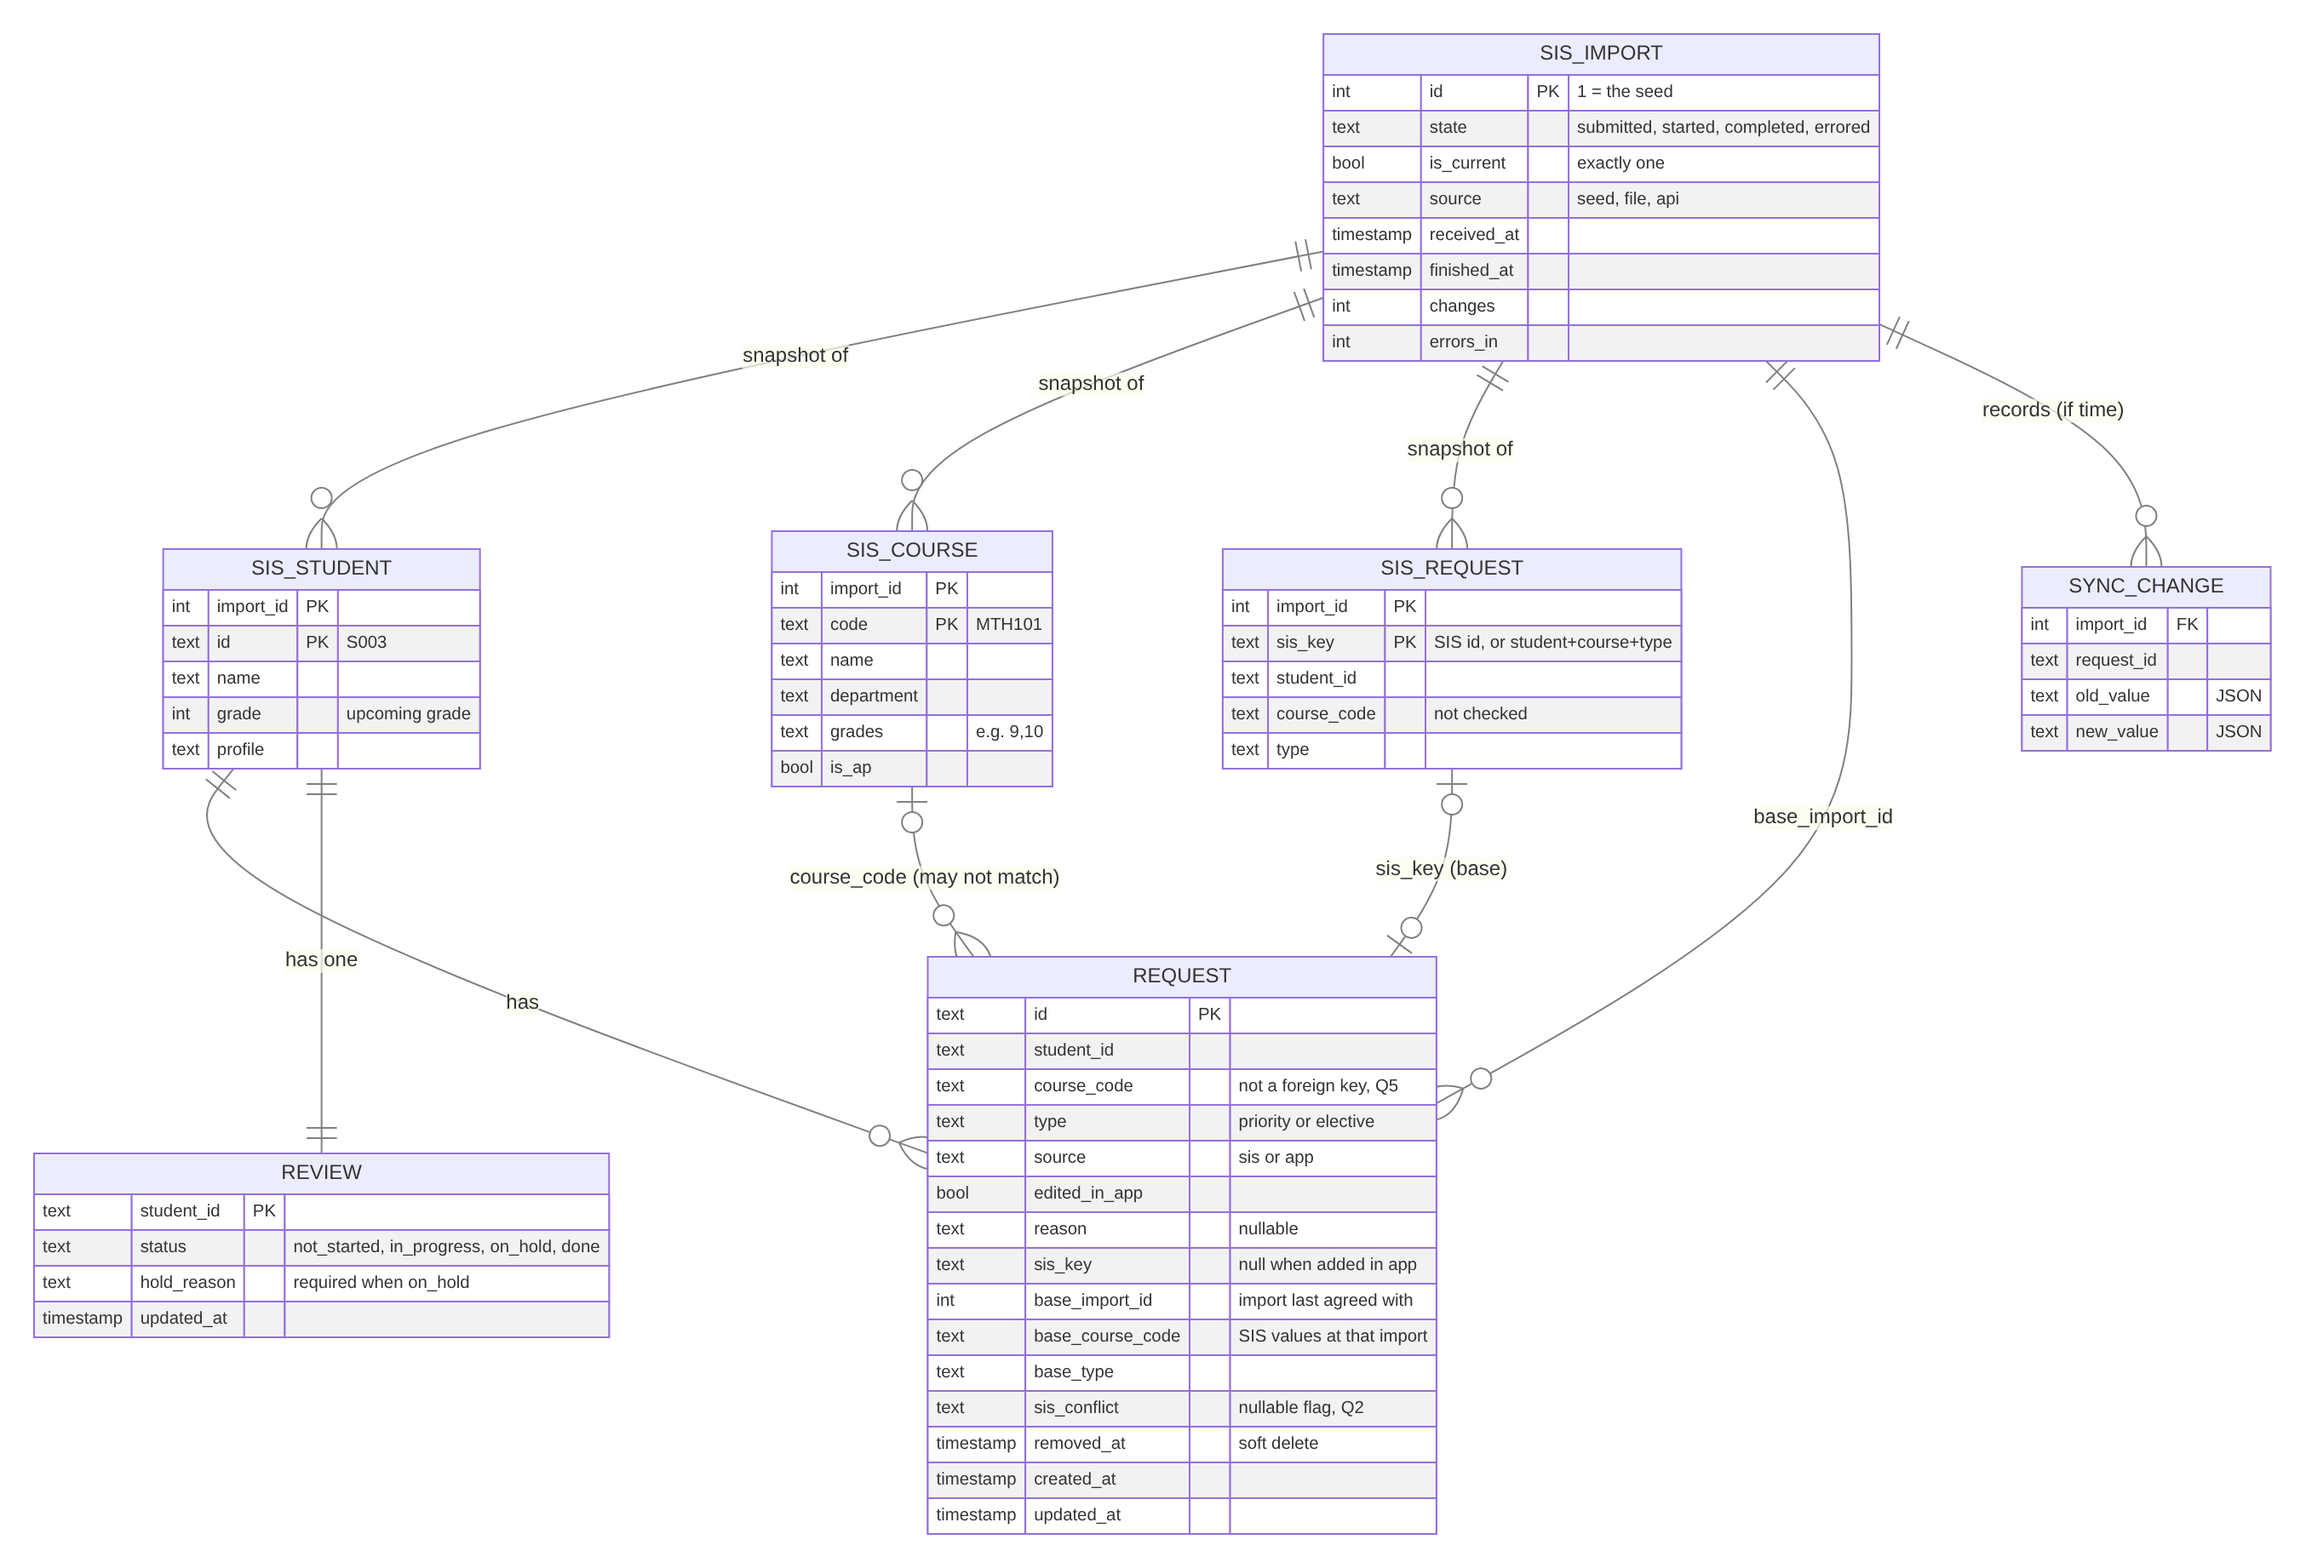
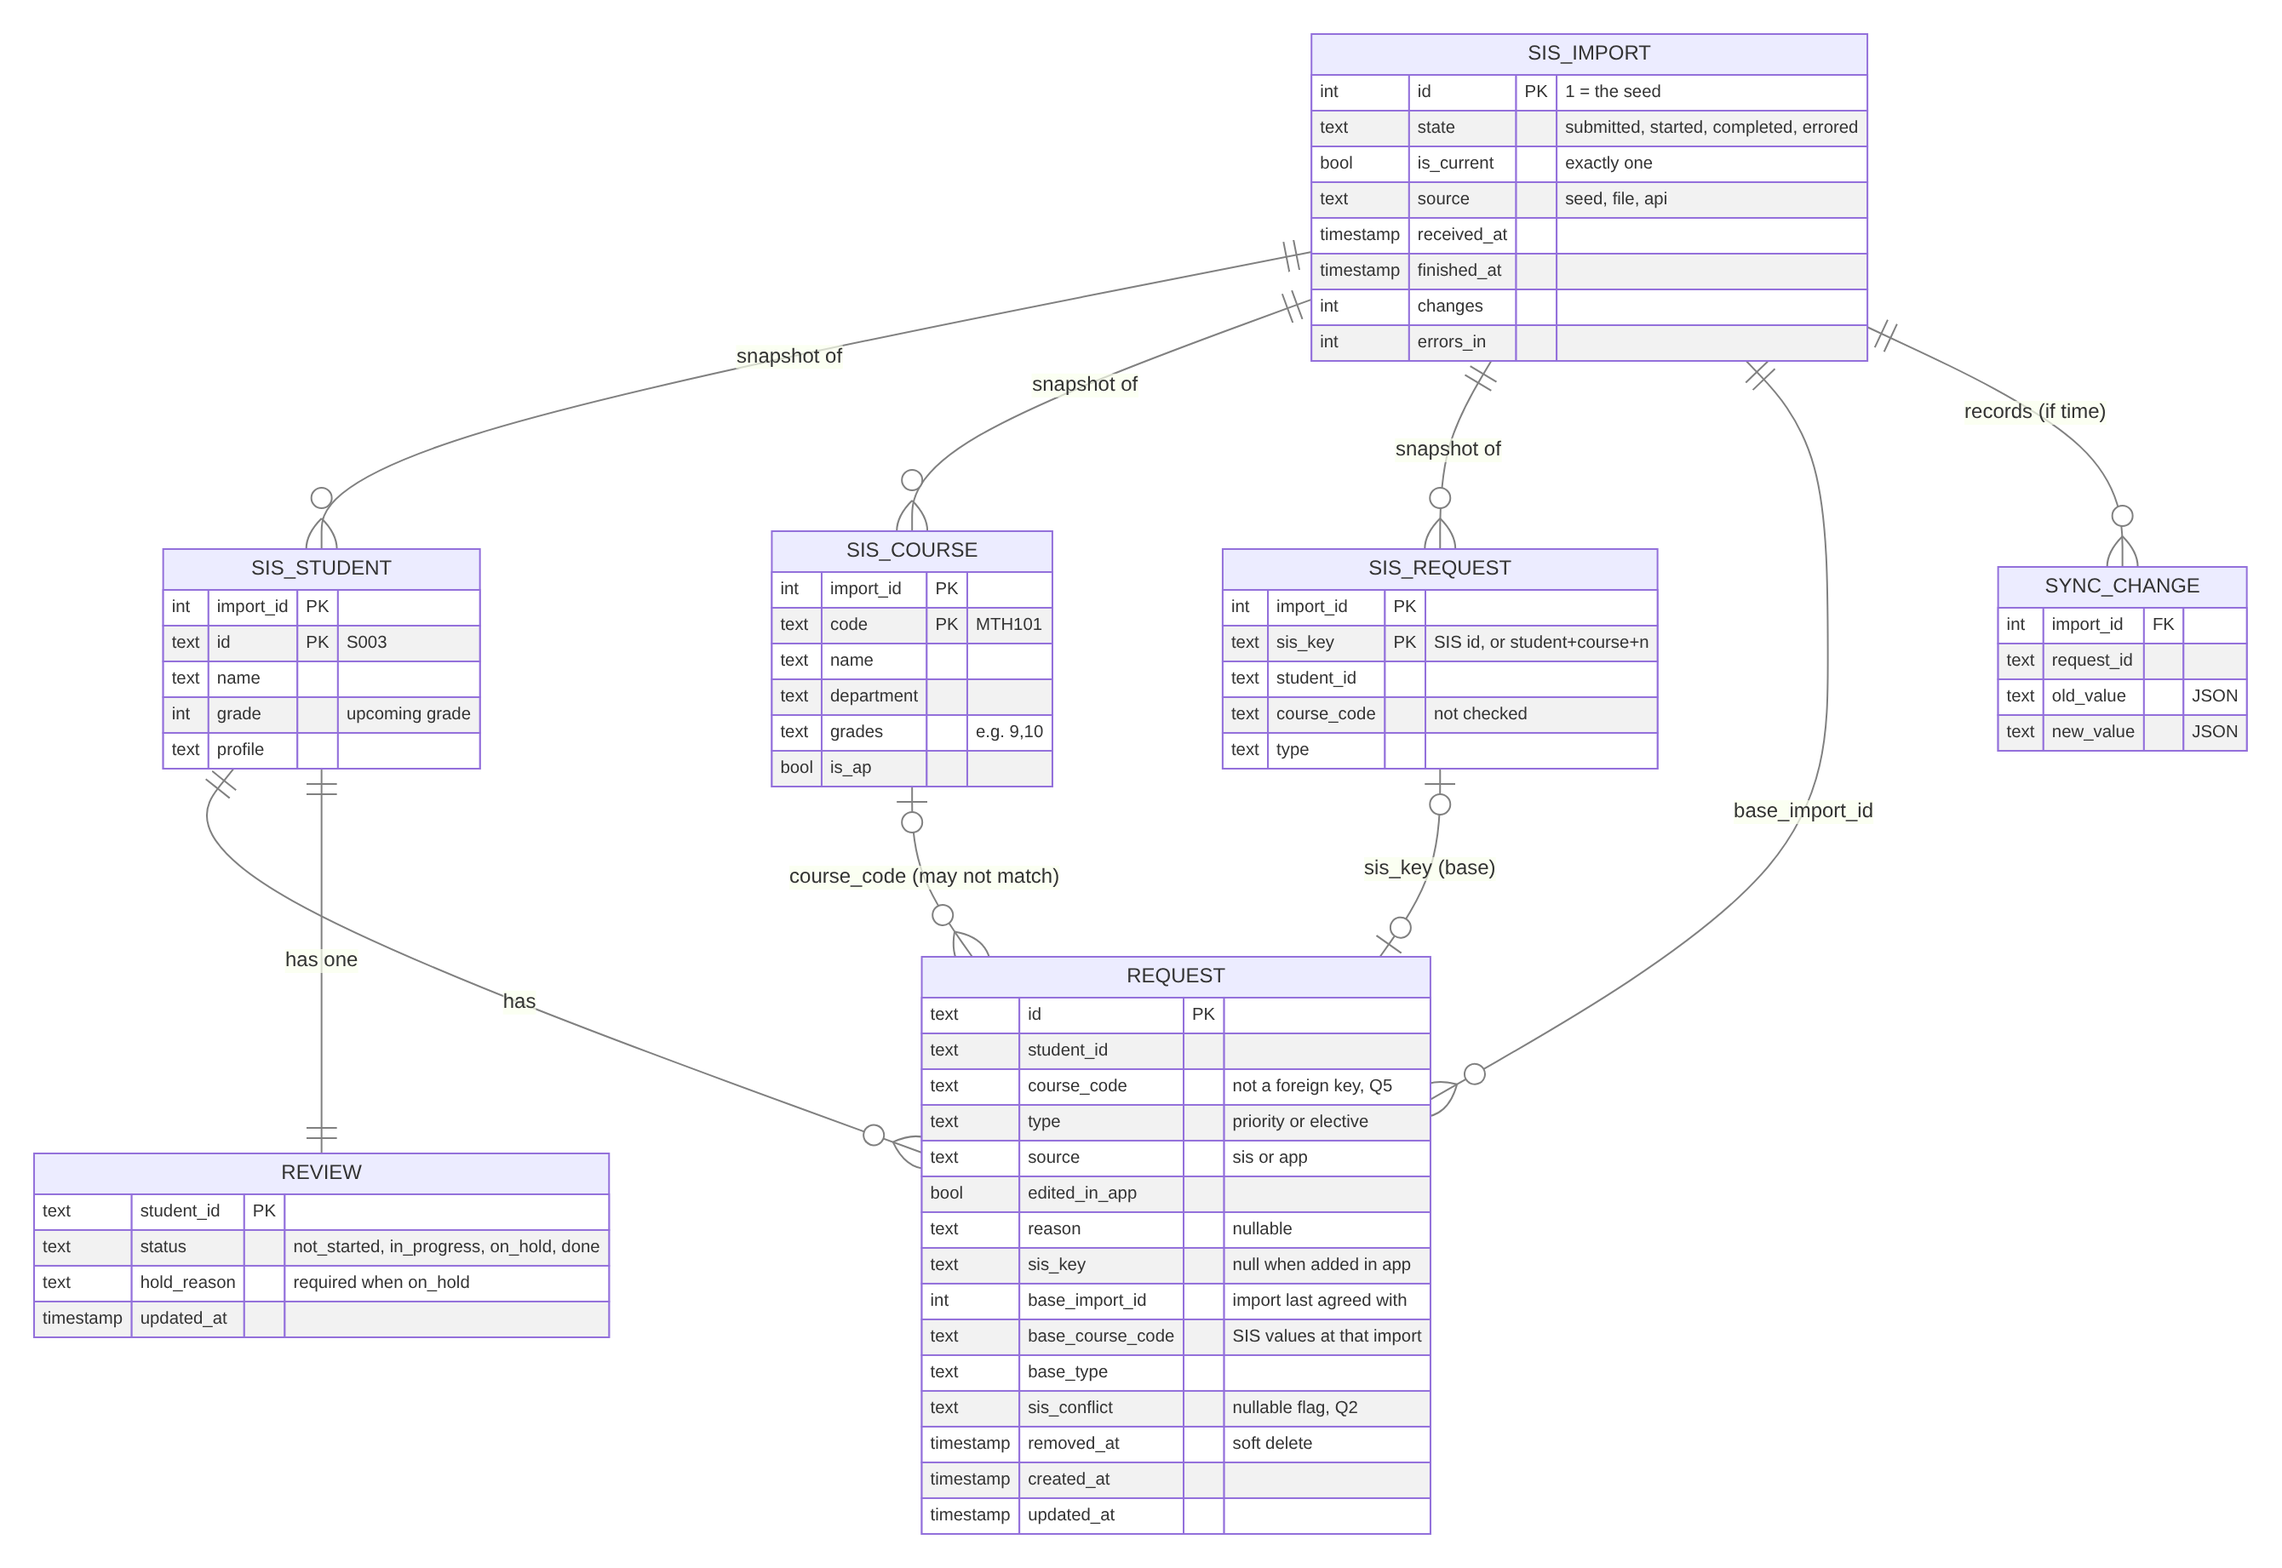
Q18: SIS request key is student+course+counter, not type
Claude-Session: https://claude.ai/code/session_016PjUpiGqPffv7nvHWyLZM3

diff --git a/docs/decisions/q018-sis-import-versioning.md b/docs/decisions/q018-sis-import-versioning.md
@@ -25,12 +25,12 @@ Stephen (2026-10-28): "we should have a versioning concept where the data is lin
 **A.** The pattern:
 
 1. **Each SIS import is an immutable snapshot** with an ID (`sis_import`, the same thing as a Q13 sync run). Students, courses and SIS requests are stored per import; one import is marked current. Old imports never change, so "what did the SIS say on Oct 26?" is answerable, and rolling back SIS-owned data moves the current pointer.
-2. **Each request remembers its base:** a stable `sis_key` to its SIS counterpart (the SIS's own request ID if it sends one; in the seed, student + course + type), the import it last agreed with, and the SIS values at that point.
+2. **Each request remembers its base:** a stable `sis_key` to its SIS counterpart (the SIS's own request ID if it sends one; otherwise student + course + an occurrence counter for duplicates), the import it last agreed with, and the SIS values at that point.
 3. **A new import reconciles three ways** (base SIS, app, new SIS): SIS changed and app didn't, apply; app changed and SIS didn't, keep; both changed, flag and never overwrite (Q2); new in SIS, add; gone from SIS, remove if untouched, flag if edited.
 
 Prototype: the seed loads as import #1 and the schema carries every field. The three-way compare, a second "import #2" seed and rollback are built only if the sync demo happens (Q9). DuckDB (Q7) does the snapshot-to-snapshot diff. Keep the last N imports (N to set; trivial at 10 students).
 
-Trade-off accepted: with no SIS request ID in the seed, a SIS change from priority to elective looks like one request removed and another added.
+Key choice (revised 2026-10-28 with Stephen): type is not part of the key, so a priority-to-elective change in the SIS is a type change on the same request. Trade-off accepted: duplicate rows (already errors, Q5) are told apart by order, so they may swap keys if the SIS reorders them. Each import's internal version ID is `sis_import.id`.
 
 ## Impacts (all updated in the same change)
 

diff --git a/docs/architecture/schema.md b/docs/architecture/schema.md
@@ -51,7 +51,7 @@ erDiagram
     }
     SIS_REQUEST {
         int import_id PK
-        text sis_key PK "SIS id, or student+course+type"
+        text sis_key PK "SIS id, or student+course+n"
         text student_id
         text course_code "not checked"
         text type
@@ -132,7 +132,7 @@ CREATE TABLE sis_course (
 
 CREATE TABLE sis_request (
   import_id   INTEGER NOT NULL REFERENCES sis_import (id),
-  sis_key     TEXT NOT NULL,        -- the SIS's request ID; in the seed, 'S008|SS402|elective'
+  sis_key     TEXT NOT NULL,        -- the SIS's request ID; in the seed, student|course|n, e.g. 'S008|SS402|2'
   student_id  TEXT NOT NULL,
   course_code TEXT NOT NULL,        -- loaded as-is with errors (Q5)
   type        TEXT NOT NULL CHECK (type IN ('priority', 'elective')),
@@ -142,7 +142,8 @@ CREATE TABLE sis_request (
 
 - **An import is a Q13 sync run.** The table replaces the earlier `sync_run`. Its states are Timely's job states (Q13, Q14).
 - **An errored import is never marked current**, so a failed run changes nothing anyone sees.
-- **The sis_key includes the type** because the seed has no request IDs and Aisha's SS402 appears twice (P and E). The trade-off: a SIS change from priority to elective looks like one removal plus one addition (Q18).
+- **The sis_key is student + course + an occurrence counter** when the SIS sends no request ID. Type is not part of the key, so a SIS change from priority to elective is a type change on the same request. The counter (`1`, `2`) only separates duplicates like Aisha's two SS402 rows, which are already errors (Q5); if the SIS reorders duplicates, they may swap keys, which is acceptable for rows that block Done anyway.
+- **`sis_import.id` is the internal version ID.** Every request records the import it last agreed with (`base_import_id`).
 
 ## 3. App-owned tables
 
